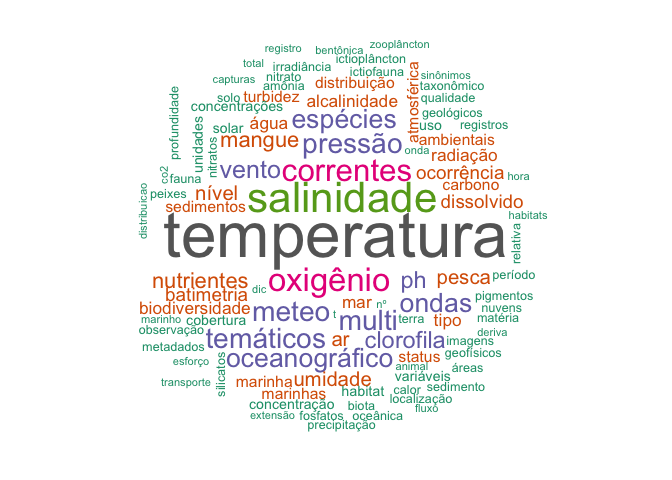
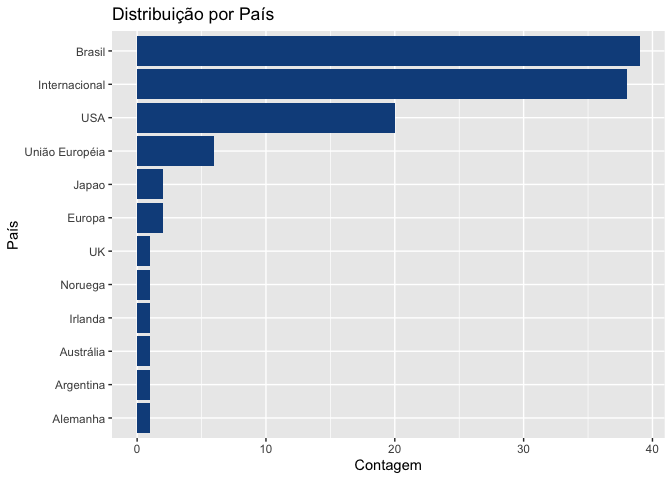
Texto intro

diff --git a/Relatorio/Relatorio.md b/Relatorio/Relatorio.md
@@ -1,12 +1,152 @@
 Levantamento de Bases de Dados
 ================
 
+## Resumo
+
 ## Introdução
 
-Este relatório apresenta uma análise exploratória das bases de dados
-oceânicas e ambientais catalogadas para o Oceano Atlântico Sul e
-Tropical, com foco em padrões de tipo de serviço, disponibilidade,
-interoperabilidade e cobertura geográfica.
+Nesse relatório, o objetivo principal é apresentar um Diagnóstico
+Nacional sobre o Oceano, mapeando o cenário brasileiro de pesquisa,
+desenvolvimento e inovação (PD&I) marinha, com foco na gestão de dados
+oceânicos, infraestrutura de pesquisa, inovação tecnológica e aplicação
+do conhecimento científico pela sociedade. O diagnóstico busca
+identificar lacunas e demandas nacionais, apoiar políticas públicas,
+fortalecer a ciência baseada em evidências e gerar informações que
+subsidiem decisões estratégicas em setores governamentais, empresariais
+e acadêmicos. O estudo será desenvolvido em ciclos, permitindo foco em
+diferentes aspectos fundamentais da PD&I marinha, sendo o primeiro ciclo
+dedicado à infraestrutura de dados oceânicos, com o objetivo de mapear
+as bases de dados existentes, seus métodos e protocolos, promover a
+interoperabilidade e evitar silos de informação, garantindo que os dados
+produzidos no Brasil possam ser integrados, utilizados e compartilhados
+de forma ampla.
+
+*Contexto da Ciência Oceânica no Brasil e Evolução da Gestão de Dados*
+
+Nas últimas duas décadas, a ciência oceânica no Brasil tem passado por
+mudanças significativas na disponibilidade, acessibilidade e gestão de
+dados. No início dos anos 2000, o armazenamento dos dados oceanográficos
+era fragmentado, nao somente no Brasil mas tambem no contexto mundial,
+com dados concentrados em laboratorios individuais de instituições de
+pesquisa. Nao havia uma grande padronização, nem como mecanismos
+compartilhados para disponibilidade desses dados compartilhamento. Nos
+ultimos 20 anos vimos uma mudanca nesse panorama, com o desenvolvimento
+de repositórios e plataformas de dados – tantos nacionais como
+internacionais – que permitem o compartilhamento de dados e acesso a
+fontes diversas. Plataformas nacionais como o SiBBr, INPE-BIG, INDE, em
+âmbito internacional, o WOD, SeaDataNet e PANGAEA, tem ampliado o acesso
+e a interoperabilidade de informações oceânicas.
+
+Um fator central dessa transformação é a expansão da coleta de dados,
+impulsionada por boias, sensores autônomos, veículos não tripulados,
+imagens de satélite e iniciativas de ciência cidadã. Os desafios
+recentes, tanto na ciência quanto na gestão baseada em evidências – em
+particular as mudanças climáticas – demandam um volume cada vez maior de
+dados, como ocorre em modelos do Sistema Terrestre Global, que assimilam
+informações para melhorar sua performance, ou em gêmeos digitais
+(digital twins), que replicam sistemas complexos para simulação e
+análise. Nesse contexto, observa-se também um crescente movimento de
+formação de redes nacionais e globais de observação. Essas mudanças
+colocam a pesquisa brasileira em oceanografia na era do big data,
+caracterizada por grandes volumes, formatos diversos e conjuntos de
+dados dispersos. Apesar dos avanços, ainda existe fragmentação, e os
+pesquisadores enfrentam desafios para localizar, acessar e integrar
+diferentes conjuntos de dados devido à falta de padronização e de
+protocolos de metadados consistentes.
+
+O gerenciamento adequado de dados de pesquisa é um desafio persistente.
+Dados bem organizados garantem que possam ser reutilizados além do
+projeto que os produziu. No Brasil, agências de fomento como CNPq, CAPES
+e FAPs têm incentivado políticas de ciência aberta, buscando assegurar a
+acessibilidade e preservação das informações científicas a longo prazo.
+A prática de disponibilizar dados de pesquisa é um princípio da ciência
+aberta, com impactos positivos na qualidade científica, na promoção de
+pesquisas interdisciplinares e na redução de esforços duplicados.
+Entretanto, iniciativas de dados abertos ainda enfrentam desafios
+estruturais no país, incluindo financiamento de longo prazo, manutenção
+de repositórios e necessidade de padronização nacional, o que reforça a
+importância de políticas integradas e investimentos contínuos em
+infraestrutura de dados.
+
+*O INPO*
+
+O Instituto Nacional de Pesquisas Oceânicas (INPO) é a única OS
+vinculada ao Ministério da Ciência, Tecnologia e Inovação (MCTI) atuante
+na área oceânica. O INPO atua como catalisador das atividades de PD&I na
+oceanografia brasileira, com missão de gerar e integrar conhecimento
+científico, apoiar políticas públicas e promover a inovação tecnológica,
+contribuindo para o desenvolvimento sustentável do país.
+
+O INPO desenvolve processos estruturantes que fortalecem a capacidade
+nacional de pesquisa, integram dados e infraestrutura e garantem a
+aplicabilidade do conhecimento pela sociedade, setor privado e órgãos
+governamentais. Entre esses projetos, destaca-se a implementação do SADD
+(Sistema de Acesso a Dados e Documentos Oceanográficos, nome
+provisório), que visa atender à demanda da comunidade científica por uma
+infraestrutura de dados interoperável e de fácil acesso, reunindo todos
+os dados oceanográficos e costeiros do Brasil.
+
+Dentro do contrato de gestão, o INPO é responsável pelos Objetivos do
+Diagnóstico Nacional sobre o Oceano, cujo principal propósito é mapear o
+cenário brasileiro de PD&I marinha, subsidiando a Agenda Científica do
+INPO e apoiando decisões estratégicas em pesquisa, inovação e políticas
+públicas. Especificamente, o diagnóstico busca:
+
+- Identificar lacunas nacionais em P&D marinha;
+
+- Revelar os problemas prementes e suas correlações com eventos extremos
+  e impactos da variabilidade climática e da ação antrópica no mar;
+
+- Identificar demandas dos sistemas públicos de gestão de riscos e
+  prevenção de desastres;
+
+- Propiciar maior segurança nos investimentos e gerar emprego e renda em
+  médio e longo prazos.
+
+Os temas centrais incluem pesca e aquicultura marinha, fontes de energia
+do oceano, transporte marítimo e operações portuárias, priorizando áreas
+que possam gerar produtos e serviços comercializáveis e subsidiar a
+elaboração de policy briefs e a implementação do SID-Oceano.
+
+O diagnóstico será desenvolvido em ciclos, combinando diferentes
+abordagens metodológicas para garantir abrangência e representatividade.
+O processo está em andamento em 2025, e os resultados esperados incluem
+a consolidação da Agenda Científica do INPO, o fortalecimento da
+infraestrutura de dados e pesquisa, a geração de produtos e serviços
+inovadores e o fornecimento de subsídios estratégicos para políticas
+públicas e decisões empresariais.
+
+- Diagnóstico de Dados \*
+
+O Diagnóstico Nacional sobre o Oceano é essencial para o desenvolvimento
+de uma infraestrutura de dados capaz de atender aos anseios e
+necessidades da comunidade científica, do setor empresarial e de
+inovação na área de oceanografia. O Diagnóstico também visa mapear as
+bases de dados existentes, seus métodos e protocolos, promover a
+interoperabilidade e evitar silos de informação, garantindo que os dados
+produzidos no Brasil possam ser integrados, utilizados e compartilhados
+de forma ampla. Esse trabalho subsidiara o planejamento e
+desenvolvimento da infraestrutura nacional de dados do INPO, que sera
+capaz de integrar, gerenciar e disponibilizar informações para a
+comunidade científica, órgãos governamentais e sociedade.
+
+No primeiro ciclo, o Diagnóstico resultará em uma síntese das bases de
+dados atualmente disponíveis, contendo informações essenciais para a
+utilização por pesquisadores, inovadores e demais atores do ecossistema
+oceânico brasileiro. A planilha gerada reúne dados como sigla, nome
+completo, tipo de serviço, estado operacional, disponibilidade em tempo
+real, abertura dos dados, protocolos e APIs, tipos de interface e
+acesso, descrição da base, tipos e exemplos de dados oceanográficos,
+instituição responsável, cobertura geográfica, país, links, observações,
+protocolos de interoperabilidade, contato responsável e tipo de licença
+de uso (Tabela 1).
+
+Embora ainda seja um levantamento inicial, essa listagem já representa
+um passo importante para consolidar a infraestrutura de dados no país,
+oferecendo à comunidade científica e tecnológica uma visão organizada do
+que está disponível e permitindo planejar de forma mais eficiente o
+acesso, compartilhamento e integração de informações essenciais para
+pesquisa, inovação e tomada de decisão estratégica.
 
 ## Métodos
 
@@ -16,21 +156,22 @@ O levantamento das bases de dados oceânicas e ambientais foi realizado
 utilizando uma combinação de metodologias para garantir abrangência,
 qualidade e reprodutibilidade dos dados:
 
-1.  **Levantamento bibliográfico**
+1.  **Levantamento Bibliográfico**
 
-Foram consultados artigos científicos e revisões que tratam de bancos de
-dados relevantes para oceanografia e ciências ambientais.
+Foi realizado um evantamento bibliográfico de diagnósticos similares
+assim como de artigos científicos e revisões que tratam de bancos de
+dados voltados a oceanografia e ciências ambientais marinhas. O objetivo
+foi identificar repositórios tanto brasileiros quanto internacionais
+usados por pesquisadores.
 
-O objetivo foi identificar repositórios utilizados na prática pelos
-pesquisadores.
-
-Todas as referências bibliográficas utilizadas serão incluídas ao final
-do relatório.
+Nosso levantamento
 
 2.  **Consulta a especialistas**
 
-Realizamos entrevistas e consultas com especialistas da área.
-
+Definimos o publico alvo para consulta nesse relatorio,
+preferencialmente pesquisadores na area de ciencias oceanicas, e
+realizamos consultas com essas partes tanto atraves de entrevistas nao
+estruturadas como por questionario para levantamento de dados.
 Utilizamos a metodologia de bola de neve, na qual os especialistas
 indicavam outros pesquisadores para expandir a lista de bases e
 referências relevantes.
@@ -51,7 +192,7 @@ comunidade científica.
 4.  **Catalogação e harmonização das bases de dados**
 
 Todas as informações coletadas foram organizadas em uma planilha única
-(bases.csv) contendo colunas padronizadas, descritas na Tabela 1:
+(bases.csv) contendo colunas padronizadas, descritas na Tabela 1.
 
 ### Tabela 1 – Cabeçalhos da base de dados e possíveis valores
 
@@ -248,66 +389,6 @@ ggplot(dados_instituicoes, aes(area = n, fill = n, label = instituicao_responsav
 
 ![](Relatorio_files/figure-commonmark/unnamed-chunk-4-1.png)
 
-``` r
-library(dplyr)
-library(tidyr)
-library(stringr)
-library(networkD3)
-```
-
-    Warning: package 'networkD3' was built under R version 4.3.3
-
-``` r
-# --- Supondo que seus dados estão assim ---
-# dados <- read.csv("sua_planilha.csv") 
-# com colunas: pais, instituicao_responsavel_pela_base_de_dados
-
-# 1. Separar múltiplas instituições
-dados_long <- dados %>%
-  mutate(instituicao_responsavel_pela_base_de_dados = str_replace_all(instituicao_responsavel_pela_base_de_dados, " - |/|,", ",")) %>%
-  separate_rows(instituicao_responsavel_pela_base_de_dados, sep = ",") %>%
-  mutate(instituicao_responsavel_pela_base_de_dados = str_trim(instituicao_responsavel_pela_base_de_dados))
-
-# 2. Contar ocorrências de cada instituição por país
-contagem <- dados_long %>%
-  count(pais, instituicao_responsavel_pela_base_de_dados, sort = TRUE)
-
-# 3. Remover países que aparecem apenas uma vez
-pais_filtrados <- contagem %>% count(pais) %>% filter(n > 1) %>% pull(pais)
-contagem <- contagem %>% filter(pais %in% pais_filtrados)
-
-# 4. Criar nós
-nodes <- data.frame(name = c(unique(contagem$pais), unique(contagem$instituicao_responsavel_pela_base_de_dados)))
-
-# 5. Criar links e cores por país
-pais_cores <- c("Brasil" = "#1f77b4", "Internacional" = "#9467bd") # adicione todos os países com cores desejadas
-links <- contagem %>%
-  mutate(
-    source = match(pais, nodes$name) - 1,
-    target = match(instituicao_responsavel_pela_base_de_dados, nodes$name) - 1,
-    value = n,
-    linkColour = pais_cores[pais]
-  )
-
-# 6. Plot Sankey
-sankeyNetwork(
-  Links = links,
-  Nodes = nodes,
-  Source = "source",
-  Target = "target",
-  Value = "value",
-  NodeID = "name",
-  fontSize = 12,
-  nodeWidth = 30,
-  colourScale = 'd3.scaleOrdinal().domain(["Brasil","Internacional"]).range(["#1f77b4","#9467bd"])',
-  LinkGroup = "linkColour"
-)
-```
-
-    Links is a tbl_df. Converting to a plain data frame.
-
-![](Relatorio_files/figure-commonmark/unnamed-chunk-5-1.png)
-
 ### Exemplos de Dados Disponíveis
 
 ``` r
@@ -348,7 +429,7 @@ colors = brewer.pal(8, "Dark2")
 )
 ```
 
-![](Relatorio_files/figure-commonmark/unnamed-chunk-6-1.png)
+![](Relatorio_files/figure-commonmark/unnamed-chunk-5-1.png)
 
 ### Distribuição por País
 
@@ -361,7 +442,7 @@ coord_flip() +
 labs(x = "País", y = "Contagem", title = "Distribuição por País")
 ```
 
-![](Relatorio_files/figure-commonmark/unnamed-chunk-7-1.png)
+![](Relatorio_files/figure-commonmark/unnamed-chunk-6-1.png)
 
 ``` r
 library(dplyr)
@@ -390,4 +471,4 @@ dados %>%
   theme(legend.position = "none")
 ```
 
-![](Relatorio_files/figure-commonmark/unnamed-chunk-8-1.png)
+![](Relatorio_files/figure-commonmark/unnamed-chunk-7-1.png)
